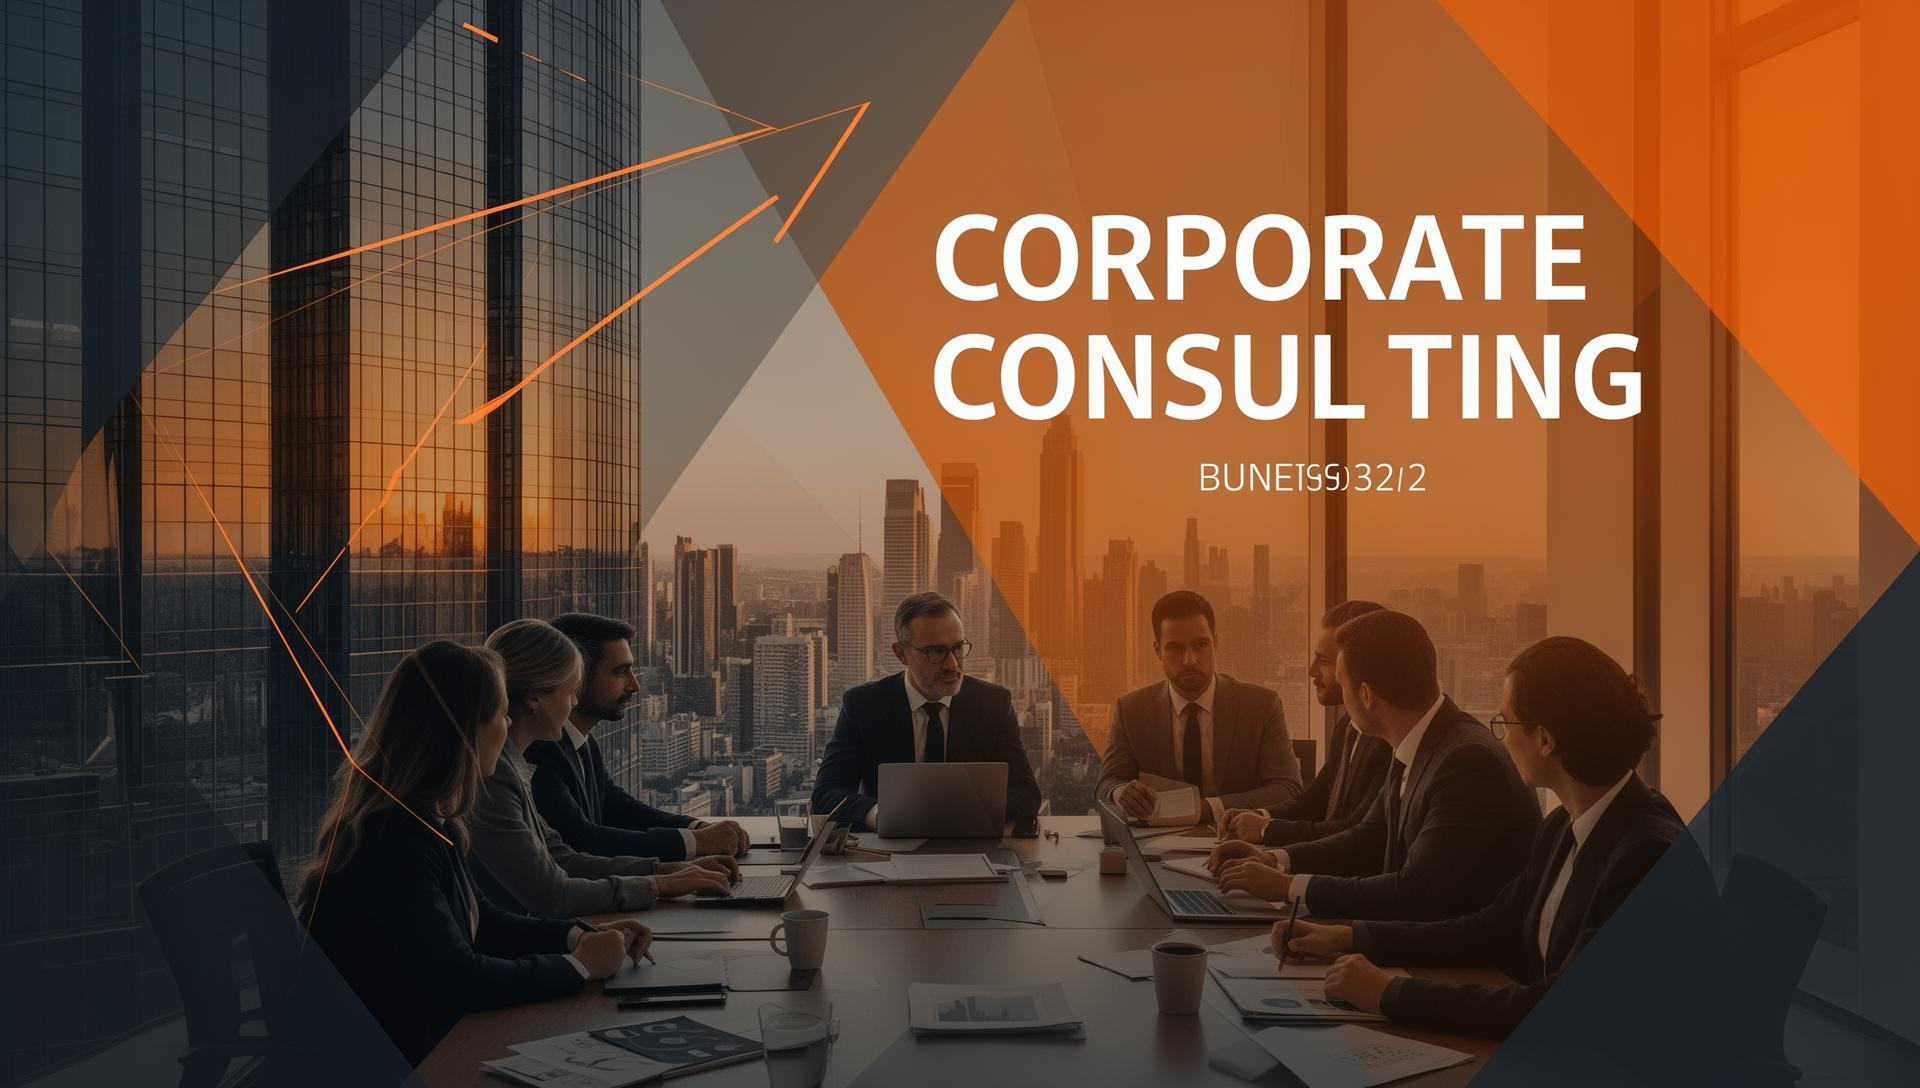
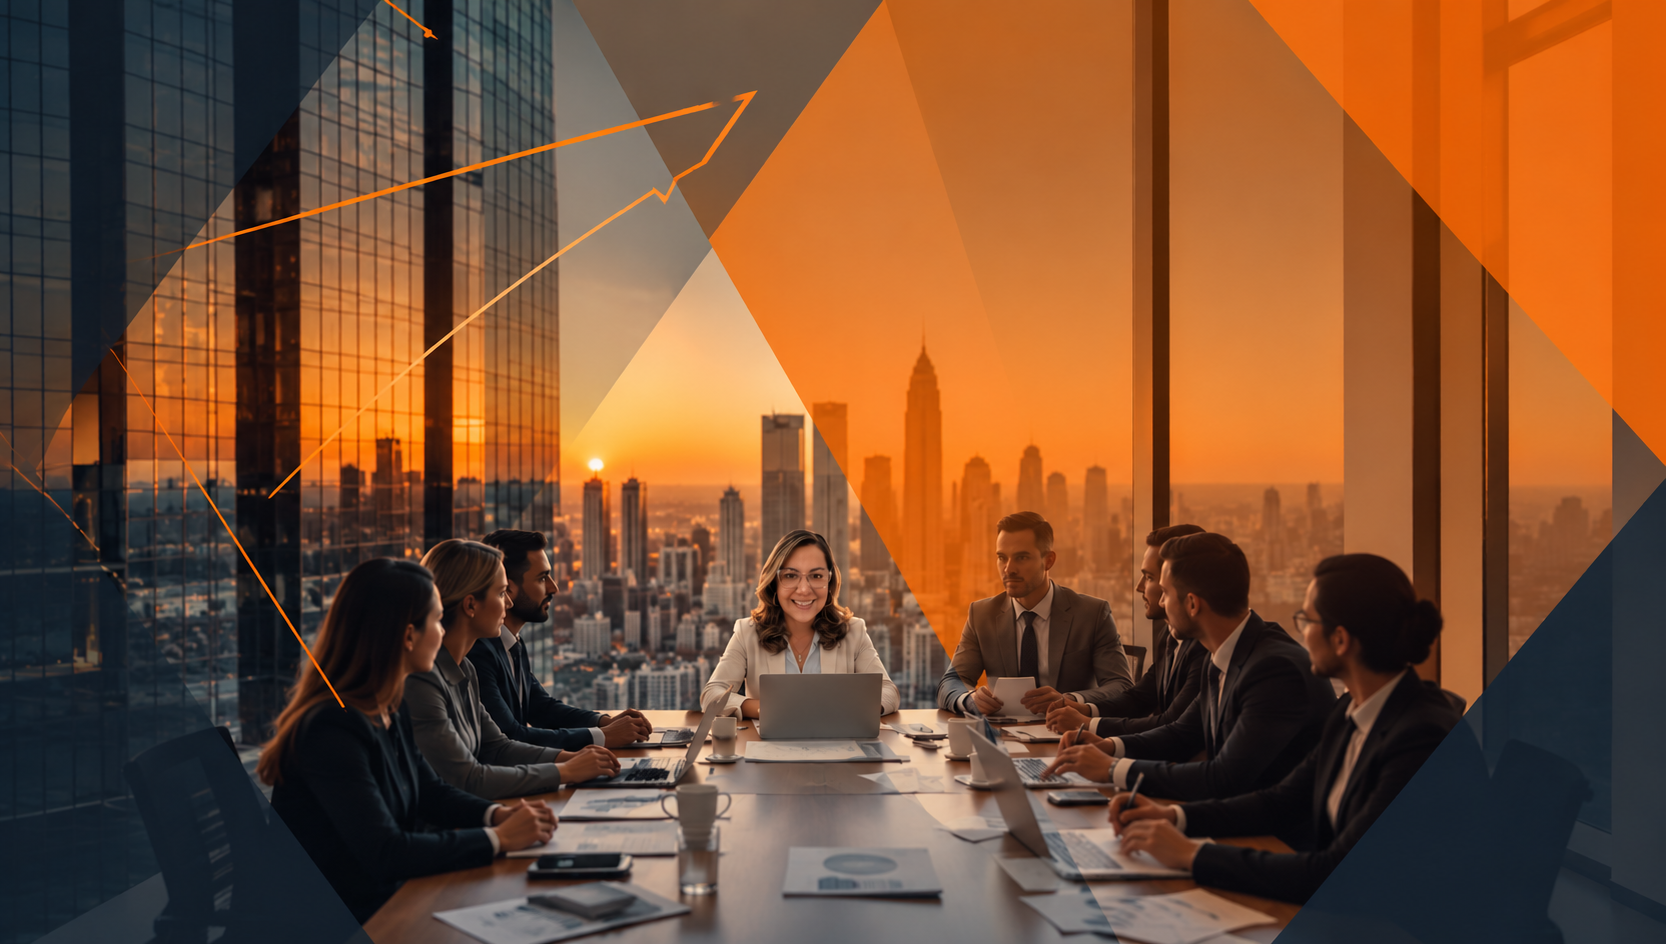
fix(identidad): alinea gris secundario con #7C7B7B (num. 6.2) y corrige og:url
- --muted-foreground pasa de #737373 (0 0% 45%) al gris primario oficial
  #7C7B7B (0 0.4% 48.4%), eliminando el último color fuera de paleta
  detectado en el barrido de la reinspección.
- og:url apunta ahora al dominio real (mgaconsultor.com.co) en vez del
  sitio de Netlify.
- Datos de contacto del pie actualizados (correo y teléfono) y número de
  WhatsApp corregido.
- Imagen del hero reemplazada por la versión aportada (hero-bg.jpg).

Compilación, tests y búsqueda en artefactos verificados: Montserrat = 0,
#E97325 = 0, #25D366 = 0, #737373 = 0.

diff --git a/src/components/Footer.tsx b/src/components/Footer.tsx
@@ -19,8 +19,8 @@ const Footer = () => (
         </div>
 
         <div className="flex flex-col sm:flex-row gap-6 text-sm text-primary-foreground/60">
-          <span className="flex items-center gap-2"><Mail size={16} className="text-primary" /> info@mgaconsultor.com</span>
-          <span className="flex items-center gap-2"><Phone size={16} className="text-primary" /> +57 300 000 0000</span>
+          <span className="flex items-center gap-2"><Mail size={16} className="text-primary" /> gerencia@mgaconsultor.com.co</span>
+          <span className="flex items-center gap-2"><Phone size={16} className="text-primary" /> +57 300 792 3166</span>
           <span className="flex items-center gap-2"><MapPin size={16} className="text-primary" /> Colombia</span>
         </div>
       </div>

diff --git a/index.html b/index.html
@@ -11,7 +11,7 @@
     <meta property="og:title" content="MGA Consultor Empresarial | Tu Aliado Estratégico" />
     <meta property="og:description" content="Soluciones expertas en consultoría y capacitación para potenciar tu empresa. Gestión de Calidad, SST, Ambiental y más." />
     <meta property="og:type" content="website" />
-    <meta property="og:url" content="https://mgaconsultor.netlify.app/" />
+    <meta property="og:url" content="https://mgaconsultor.com.co/" />
     <meta property="og:image" content="/og-image.png" />
     <meta property="twitter:card" content="summary_large_image" />
     <meta property="twitter:title" content="MGA Consultor Empresarial | Consultoría y Capacitación" />

diff --git a/src/components/WhatsAppButton.tsx b/src/components/WhatsAppButton.tsx
@@ -7,7 +7,7 @@
  * El verde de WhatsApp (#25D366) no está autorizado por el manual.
  */
 const WhatsAppButton = () => {
-  const phoneNumber = "573300792316";
+  const phoneNumber = "573007923166";
   const message = "Hola, me gustaría recibir más información sobre sus servicios de consultoría.";
   const whatsappUrl = `https://wa.me/${phoneNumber}?text=${encodeURIComponent(message)}`;
 

diff --git a/src/index.css b/src/index.css
@@ -25,7 +25,8 @@
     --secondary-foreground: 0 0% 100%;
 
     --muted: 30 20% 96%;
-    --muted-foreground: 0 0% 45%;
+    /* Manual V002 numeral 6.2: gris primario oficial #7C7B7B (H-02, revisión de coherencia) */
+    --muted-foreground: 0 0.4% 48.4%;
 
     --accent: 36.1 73.2% 49.8%;
     --accent-foreground: 0 0% 100%;
